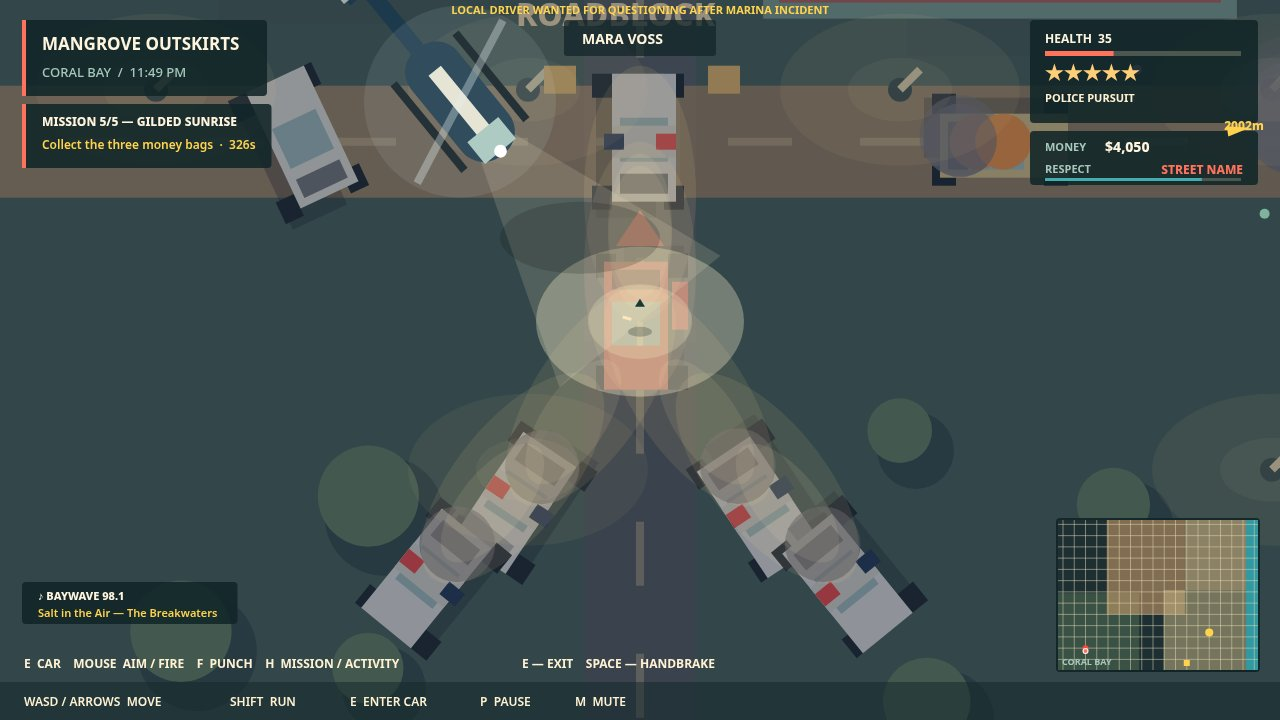
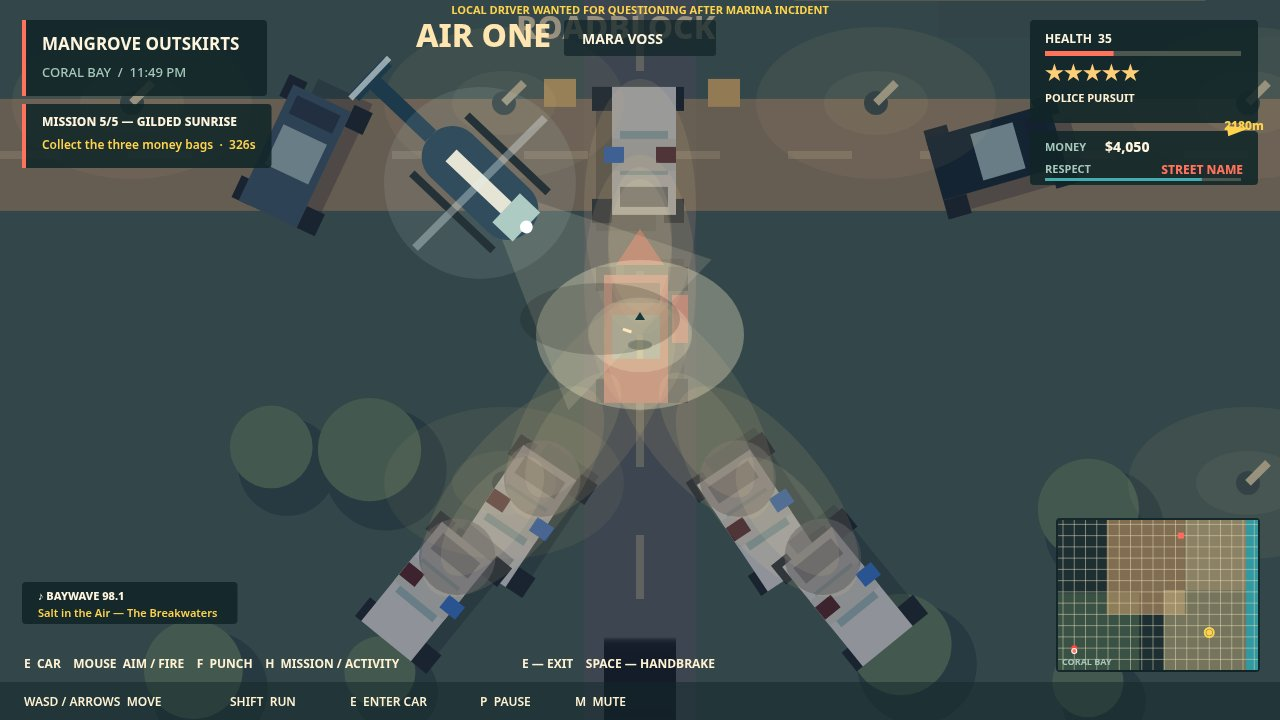
F3-S3c: settle AIR ONE fully inside the chase frame

diff --git a/tools/capture-shots.js b/tools/capture-shots.js
@@ -366,7 +366,7 @@ server.listen(0, '127.0.0.1', async () => {
         const a=Math.atan2(rb.y-c.y, rb.x-c.x);
         g.combat.fire(c.x, c.y, a, 'player');
         const h=g.police.heli;
-        if (h) { h.x=c.x-45; h.y=c.y-55; h.spotX=c.x; h.spotY=c.y; h.angle=Math.atan2(c.y-h.y, c.x-h.x); }
+        if (h) { h.x=c.x-40; h.y=c.y-38; h.spotX=c.x; h.spotY=c.y; h.angle=Math.atan2(c.y-h.y, c.x-h.x); }
         CoralShots.freeze(true); return true; })()`);
       await delay(300);
       const d = await evaluate('CoralShots.describe()');
